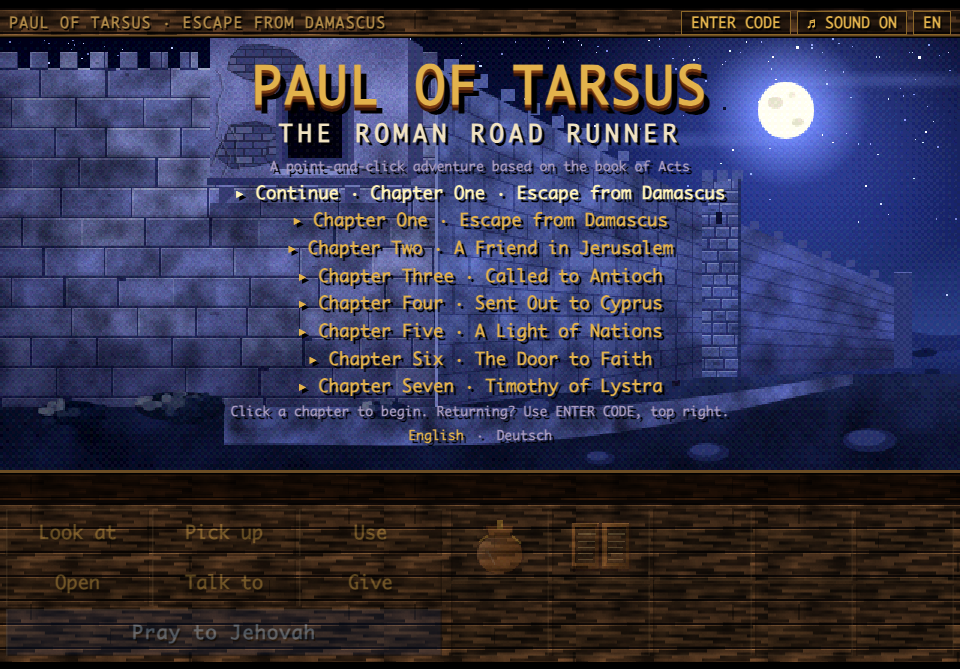
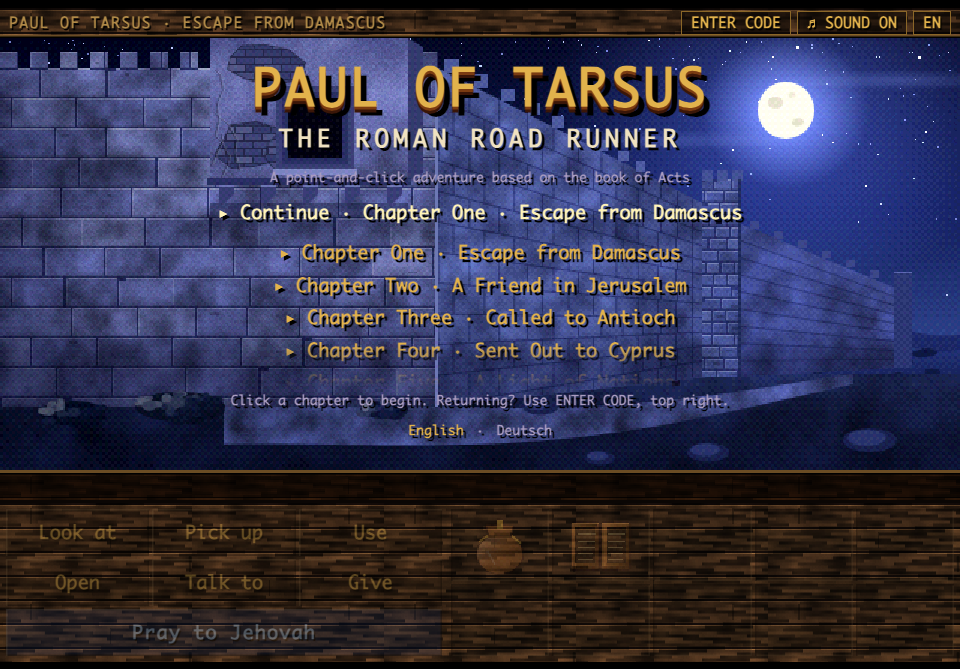
Title screen: scrolling chapter list with faded edges; subtitle "On the Roads of Rome"
The chapters scroll in their own box below the title; an edge with more
beyond it fades out. Continue stays above the list. Also carries the
in-progress subtitle rename from the working tree.

Changed region(s): [[0.2188, 0.0897, 0.7812, 0.6876]]

diff --git a/index.html b/index.html
@@ -3,7 +3,7 @@
 <head>
 <meta charset="utf-8">
 <meta name="viewport" content="width=device-width, initial-scale=1">
-<title>Paul of Tarsus: The Roman Road Runner</title>
+<title>Paul of Tarsus: On the Roads of Rome</title>
 <style>
 :root{--s:3;--gold:#e2b24c;--hi:#fff3b8;--dim:#8a6628;--ink:#0b0812;--pray:#a8d0f8;--px:calc(var(--s)*.5px);--wood:none}
 *{box-sizing:border-box}
@@ -50,10 +50,19 @@ body{display:flex;align-items:center;justify-content:center}
 #overlay .small{font-size:calc(var(--s)*4.4px);color:#a99cc0}
 #overlay .go{color:var(--hi);animation:bl 1.1s steps(2) infinite}
 #overlay .go,#overlay .pick{font-size:calc(var(--s)*6.2px);margin:calc(var(--s)*2.5px) 0}
-#overlay.long .go,#overlay.long .pick{margin:calc(var(--s)*1.5px) 0}
-#overlay.long h2{margin:calc(var(--s)*2px) 0}
-#overlay.longer .go,#overlay.longer .pick{font-size:calc(var(--s)*5.8px);margin:calc(var(--s)*.7px) 0}
-#overlay.longer p.small{margin:calc(var(--s)*1px) 0}
+/* the title screen's chapters scroll in a box that takes whatever room the title leaves; an entry that runs past its top or bottom
+   edge fades out over a band of the box, and the band is there only while there is more to scroll that way */
+@property --ft{syntax:'<length>';inherits:false;initial-value:0px}
+@property --fb{syntax:'<length>';inherits:false;initial-value:0px}
+#overlay .chs{flex:0 1 auto;min-height:0;overflow-y:auto;overscroll-behavior:contain;scrollbar-width:none;
+  padding:0 calc(var(--s)*4px);--ft:0px;--fb:0px;transition:--ft .35s,--fb .35s;
+  -webkit-mask-image:linear-gradient(to bottom,transparent,#000 var(--ft),#000 calc(100% - var(--fb)),transparent);
+  mask-image:linear-gradient(to bottom,transparent,#000 var(--ft),#000 calc(100% - var(--fb)),transparent)}
+#overlay .chs::-webkit-scrollbar{display:none}
+#overlay .chs.up{--ft:calc(var(--s)*14px)}
+#overlay .chs.down{--fb:calc(var(--s)*14px)}
+#overlay .chs p{margin-left:auto;margin-right:auto}
+#overlay h1,#overlay h2,#overlay p{flex-shrink:0}
 #overlay .pick{color:var(--gold)}
 #overlay .pick:hover{color:#fff}
 #overlay .langs span{cursor:pointer;padding:0 calc(var(--s)*1.5px)}
@@ -130,7 +139,7 @@ body{display:flex;align-items:center;justify-content:center}
 </div>
 <script>
 "use strict";
-/* Paul of Tarsus: The Roman Road Runner. This file is the engine: layout, the paint toolkit, figures, the audio sequencer,
+/* Paul of Tarsus: On the Roads of Rome. This file is the engine: layout, the paint toolkit, figures, the audio sequencer,
    verbs and inventory, safe-point codes and the level loader. Each chapter (its music, artwork, cast, rooms and dialog)
    is a separate file under levels/, loaded on demand. */
 /* ============ CORE ============ */
@@ -1077,7 +1086,7 @@ async function setLang(l,keep){if(!LANGS[l])return;
   await Promise.all(['main',...Object.keys(CHAP).filter(n=>CHAP[n].ready)].map(p=>langFile(l,p)));
   G.lang=l;MADE.clear();if(keep)store('paul.lang',l);relang()}
 /* relang: redraw every fixed piece of text in the new language: the panel, the top bar, an open overlay, choices, the tablets */
-function relang(){document.documentElement.lang=G.lang;document.title=T('Paul of Tarsus: The Roman Road Runner');
+function relang(){document.documentElement.lang=G.lang;document.title=T('Paul of Tarsus: On the Roads of Rome');
   $('#gname').textContent=T('PAUL OF TARSUS');$('#chname').textContent=T(CHAP[G.ch].name);
   const ks=Object.keys(LANGS),nx=ks[(ks.indexOf(G.lang)+1)%ks.length];$('#lang').textContent=G.lang.toUpperCase();
   $('#lang').title=LANGS[nx].native;$('#lang').style.display=ks.length>1?'':'none';
@@ -1092,16 +1101,20 @@ function loadFail(e){console.error(e);ov.onclick=()=>location.reload();
   overlay('on end',()=>{ov.innerHTML='<h2>'+T('LEVEL NOT FOUND')+'</h2><p>'+esc(e.message)+'</p><p class="small">'+T('The chapter files live in the levels folder next to index.html.')+
     '</p><p class="go">'+T('Click to reload')+'</p>'})}
 async function startChapter(n){ov.onclick=null;try{await loadLevel(n)}catch(e){return loadFail(e)}AU.key=CHAP[n].music;return CHAP[n].start()}
+/* chsFade: fades the chapter list's top edge while entries are scrolled away above it, and its bottom edge while more wait below */
+function chsFade(l){l.classList.toggle('up',l.scrollTop>1);l.classList.toggle('down',l.scrollTop+l.clientHeight<l.scrollHeight-1)}
+addEventListener('resize',()=>{const l=ov.querySelector('.chs');if(l)chsFade(l)});
 async function title(){lock(true);await setLang(firstLang());try{await loadLevel(TITLE.level)}catch(e){return loadFail(e)}
   setChapter(TITLE.level);G.scene=CHAP[TITLE.level].scenes[TITLE.scene];G.end={};AU.mood=TITLE.mood;AU.amb=TITLE.amb;
-  /* a long list of chapters is set a little closer, so that the title keeps its room above it; a list of seven or more, closer still */
-  overlay((Object.keys(CHAP).length>4?'on long':'on')+(Object.keys(CHAP).length>6?' longer':''),()=>{const sv=saved();ov.innerHTML='<h1>'+T('PAUL OF TARSUS')+'</h1><h2>'+T('THE ROMAN ROAD RUNNER')+'</h2>'+
+  /* the chapters scroll in their own box below the title (see .chs); Continue stays above it, always in view */
+  overlay('on',()=>{const sv=saved();ov.innerHTML='<h1>'+T('PAUL OF TARSUS')+'</h1><h2>'+T('ON THE ROADS OF ROME')+'</h2>'+
     '<p class="small">'+T('A point-and-click adventure based on the book of Acts')+'</p>'+
     (sv?'<p class="go" data-cont="1">&#9656; '+T('Continue')+' &middot; '+T(CHAP[sv.ch].label)+' &middot; '+T(CHAP[sv.ch].title)+'</p>':'')+
-    Object.keys(CHAP).map((n,i)=>`<p class="${i||sv?'pick':'go'}" data-ch="${n}">&#9656; ${T(CHAP[n].label)} &middot; ${T(CHAP[n].title)}</p>`).join('')+
+    '<div class="chs">'+Object.keys(CHAP).map((n,i)=>`<p class="${i||sv?'pick':'go'}" data-ch="${n}">&#9656; ${T(CHAP[n].label)} &middot; ${T(CHAP[n].title)}</p>`).join('')+'</div>'+
     '<p class="small">'+T('Click a chapter to begin. Returning? Use ENTER CODE, top right.')+'</p>'+
-    (Object.keys(LANGS).length>1?'<p class="small langs">'+Object.keys(LANGS).map(l=>`<span data-lang="${l}"${l===G.lang?' class="on"':''}>${LANGS[l].native}</span>`).join(' &middot; ')+'</p>':'')});
-  ov.onclick=e=>{const d=e.target.dataset||{};if(d.lang){SFX.click();return setLang(d.lang,1)}
+    (Object.keys(LANGS).length>1?'<p class="small langs">'+Object.keys(LANGS).map(l=>`<span data-lang="${l}"${l===G.lang?' class="on"':''}>${LANGS[l].native}</span>`).join(' &middot; ')+'</p>':'');
+    const l=ov.querySelector('.chs');l.onscroll=()=>chsFade(l);requestAnimationFrame(()=>chsFade(l))});
+  ov.onclick=e=>{const d=e.target.dataset||{};if(d.lang){SFX.click();return setLang(d.lang,1)}if(e.target.classList.contains('chs'))return;
     if(e.target.closest('.langs'))return;if(d.cont)return resume();startChapter(+d.ch||1)};codeBtn();G.ready=1}
 /* endScreen: a chapter's closing screen. o: title; text; based (its passages, and that the dialogue is imagined); extra (more lines for
    the score, such as kindness shown); go (what a click does next); code ([line, code] for the next chapter); time (show the time played). */

diff --git a/tools/playtest-harness.html b/tools/playtest-harness.html
@@ -93,6 +93,15 @@
     AU.ctx=fake('interrupted');dispatchEvent(new PointerEvent('pointerup',{bubbles:true}));ok(n===1,'a tap wakes sound that iOS interrupted');
     AU.ctx=fake('suspended');key('Shift');ok(n===2,'a key wakes sound the browser held back');
     AU.ctx=fake('running');dispatchEvent(new MouseEvent('click'));ok(n===2,'running sound is left alone');AU.ctx=real}
+  /* the chapters scroll in their own box: its far edge fades while more lies beyond it, and a click between entries starts nothing */
+  {const l=ov.querySelector('.chs'),fade=()=>new Promise(r=>requestAnimationFrame(()=>requestAnimationFrame(r)));
+    ok(l&&[...l.children].every(p=>p.dataset.ch)&&l.children.length===Object.keys(CHAP).length,'the chapters sit in a list of their own');
+    await fade();const more=l.scrollHeight>l.clientHeight+1;
+    ok(!l.classList.contains('up')&&l.classList.contains('down')===more,'at the top, only the bottom edge fades, and only when there is more below');
+    if(more){l.scrollTop=l.scrollHeight;l.dispatchEvent(new Event('scroll'));
+      ok(l.classList.contains('up')&&!l.classList.contains('down'),'scrolled to the end, the top edge fades and the bottom does not');
+      l.click();await wait(60);ok(ov.classList.contains('on')&&!G.room,'a click on the list between entries starts no chapter');
+      halt('titlescroll',()=>{const g=ov.querySelector('.go');if(g)g.style.animation='none'});l.scrollTop=0;l.dispatchEvent(new Event('scroll'))}}
   /* the voices, rendered offline on the game's own mixer (audioGraph): every instrument and drum stroke sounds, stays finite and does not clip */
   {const SR=22050,offline=async(fn,dur)=>{const off=new OfflineAudioContext(1,Math.ceil(SR*dur),SR),keep=Object.assign({},AU);AU.ctx=off;audioGraph(off);
       try{fn(off)}finally{for(const k in AU)AU[k]=keep[k]}return(await off.startRendering()).getChannelData(0)},

diff --git a/lang/de/main.js b/lang/de/main.js
@@ -78,12 +78,12 @@ TEXTS('de','main',{
   "The Man from Macedonia":"Der Mann aus Mazedonien",
   "{file} did not register what it should.":"{file} wurde nicht richtig geladen.",
   "Could not load {file}.":"{file} konnte nicht geladen werden.",
-  "Paul of Tarsus: The Roman Road Runner":"Paulus von Tarsus: Auf Roms Straßen",
+  "Paul of Tarsus: On the Roads of Rome":"Paulus von Tarsus: Auf Roms Straßen",
   "PAUL OF TARSUS":"PAULUS VON TARSUS",
   "LEVEL NOT FOUND":"KAPITEL NICHT GEFUNDEN",
   "The chapter files live in the levels folder next to index.html.":"Die Kapiteldateien liegen im Ordner „levels“ neben index.html.",
   "Click to reload":"Zum Neuladen klicken",
-  "THE ROMAN ROAD RUNNER":"AUF ROMS STRASSEN",
+  "ON THE ROADS OF ROME":"AUF ROMS STRASSEN",
   "A point-and-click adventure based on the book of Acts":"Ein Point-and-Click-Abenteuer nach dem Bibelbuch Apostelgeschichte",
   "Click a chapter to begin. Returning? Use ENTER CODE, top right.":"Klicke auf ein Kapitel, um zu beginnen. Schon einmal gespielt? Oben rechts auf CODE EINGEBEN klicken.",
   "Continue":"Weiterspielen",

diff --git a/README.md b/README.md
@@ -1,4 +1,4 @@
-# Paul of Tarsus: The Roman Road Runner
+# Paul of Tarsus: On the Roads of Rome
 
 A browser point-and-click adventure in the style of early-1990s verb-and-inventory adventure games. You play Saul of Tarsus, later known as the apostle Paul, a tentmaker who gets out of tight spots with his trade, his brothers and prayer rather than with force.
 
@@ -10,7 +10,7 @@ There are eight chapters so far, in English and German. The game is a small engi
 
 **Play online: https://marcuscalidus.github.io/paul-of-tarsus/**
 
-Or download this repository and open `index.html` in any current desktop browser (keep the `levels` folder next to it). Pick a chapter on the title screen; the game saves your place by itself, so next time the title screen offers to continue. Nothing to install or build.
+Or download this repository and open `index.html` in any current desktop browser (keep the `levels` folder next to it). Pick a chapter on the title screen (scroll the list for the later ones); the game saves your place by itself, so next time the title screen offers to continue. Nothing to install or build.
 
 The online version is served by GitHub Pages straight from the root of the `main` branch.
 
@@ -488,7 +488,7 @@ Edit a file and reload.
 node tools/playtest.mjs
 ```
 
-It plays the game once in English and once more in every other language under `lang/`, each followed by `resume`, which reloads the game to check that the autosave brings the player back (`continue` stops at the title screen that offers it). Pass stop names to save screenshots to `tools/out/` instead, for example `node tools/playtest.mjs title workshop harbor`; put a language in front of a stop to take it in that language: `node tools/playtest.mjs de:title de:tablets`. The stop names are defined in `tools/playtest-harness.html`; Chapter Three stops such as `tarsus`, `court` and `antioch` start that chapter directly, and so do Chapter Four stops such as `seleucia`, `salamis` and `paphos` Chapter Five stops such as `perga`, `ford` and `pisidia`, and Chapter Six stops such as `iconium`, `lystra` and `derbe`. Chapter Seven stops such as `council`, `gates` and `lystra7` start that chapter in the same way; its opening scenes have stops of their own (`dispute7`, `council`, `letter7`, `parting7`, `map7`). Chapter Eight stops such as `fork8`, `troas8` and `river8` do the same, and its scenes and maps have theirs (`vision8`, `deck8`, `house8`, `map8`, `sea8`). The stop `beasts` shows the animal sprites enlarged; the playtest fails if any part of one (a tail, a head, a highlight) is not attached to the rest.
+It plays the game once in English and once more in every other language under `lang/`, each followed by `resume`, which reloads the game to check that the autosave brings the player back (`continue` stops at the title screen that offers it, and `titlescroll` at the title screen with its chapter list scrolled to the end). Pass stop names to save screenshots to `tools/out/` instead, for example `node tools/playtest.mjs title workshop harbor`; put a language in front of a stop to take it in that language: `node tools/playtest.mjs de:title de:tablets`. The stop names are defined in `tools/playtest-harness.html`; Chapter Three stops such as `tarsus`, `court` and `antioch` start that chapter directly, and so do Chapter Four stops such as `seleucia`, `salamis` and `paphos` Chapter Five stops such as `perga`, `ford` and `pisidia`, and Chapter Six stops such as `iconium`, `lystra` and `derbe`. Chapter Seven stops such as `council`, `gates` and `lystra7` start that chapter in the same way; its opening scenes have stops of their own (`dispute7`, `council`, `letter7`, `parting7`, `map7`). Chapter Eight stops such as `fork8`, `troas8` and `river8` do the same, and its scenes and maps have theirs (`vision8`, `deck8`, `house8`, `map8`, `sea8`). The stop `beasts` shows the animal sprites enlarged; the playtest fails if any part of one (a tail, a head, a highlight) is not attached to the rest.
 
 ## Contributing
 
